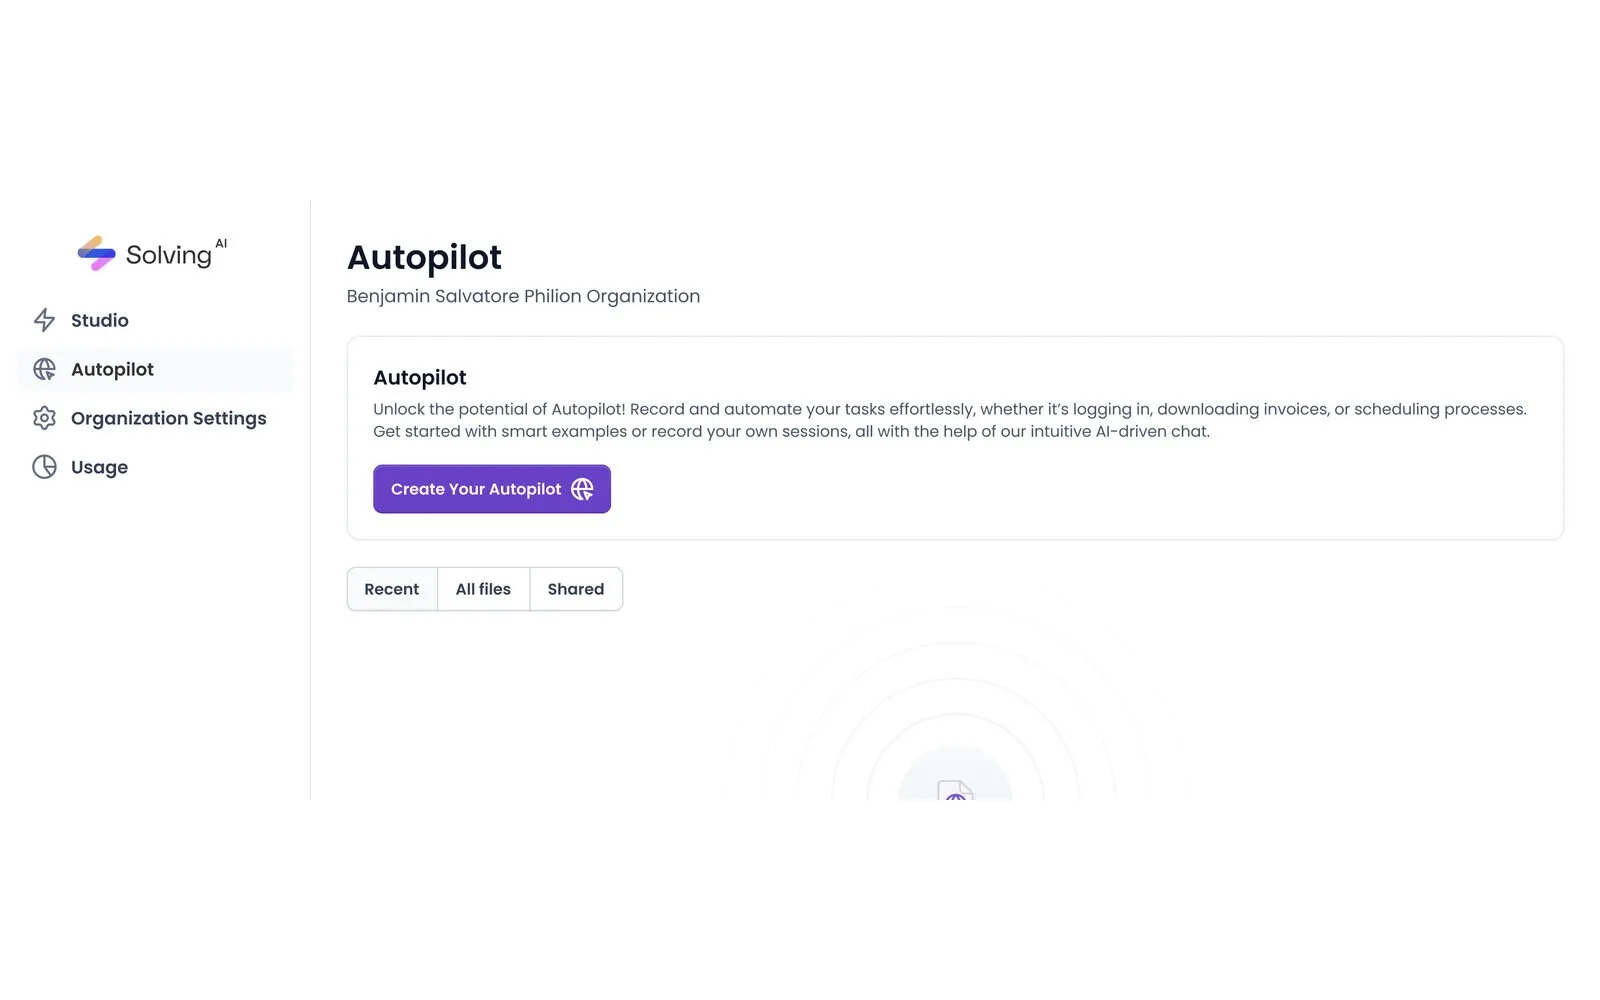
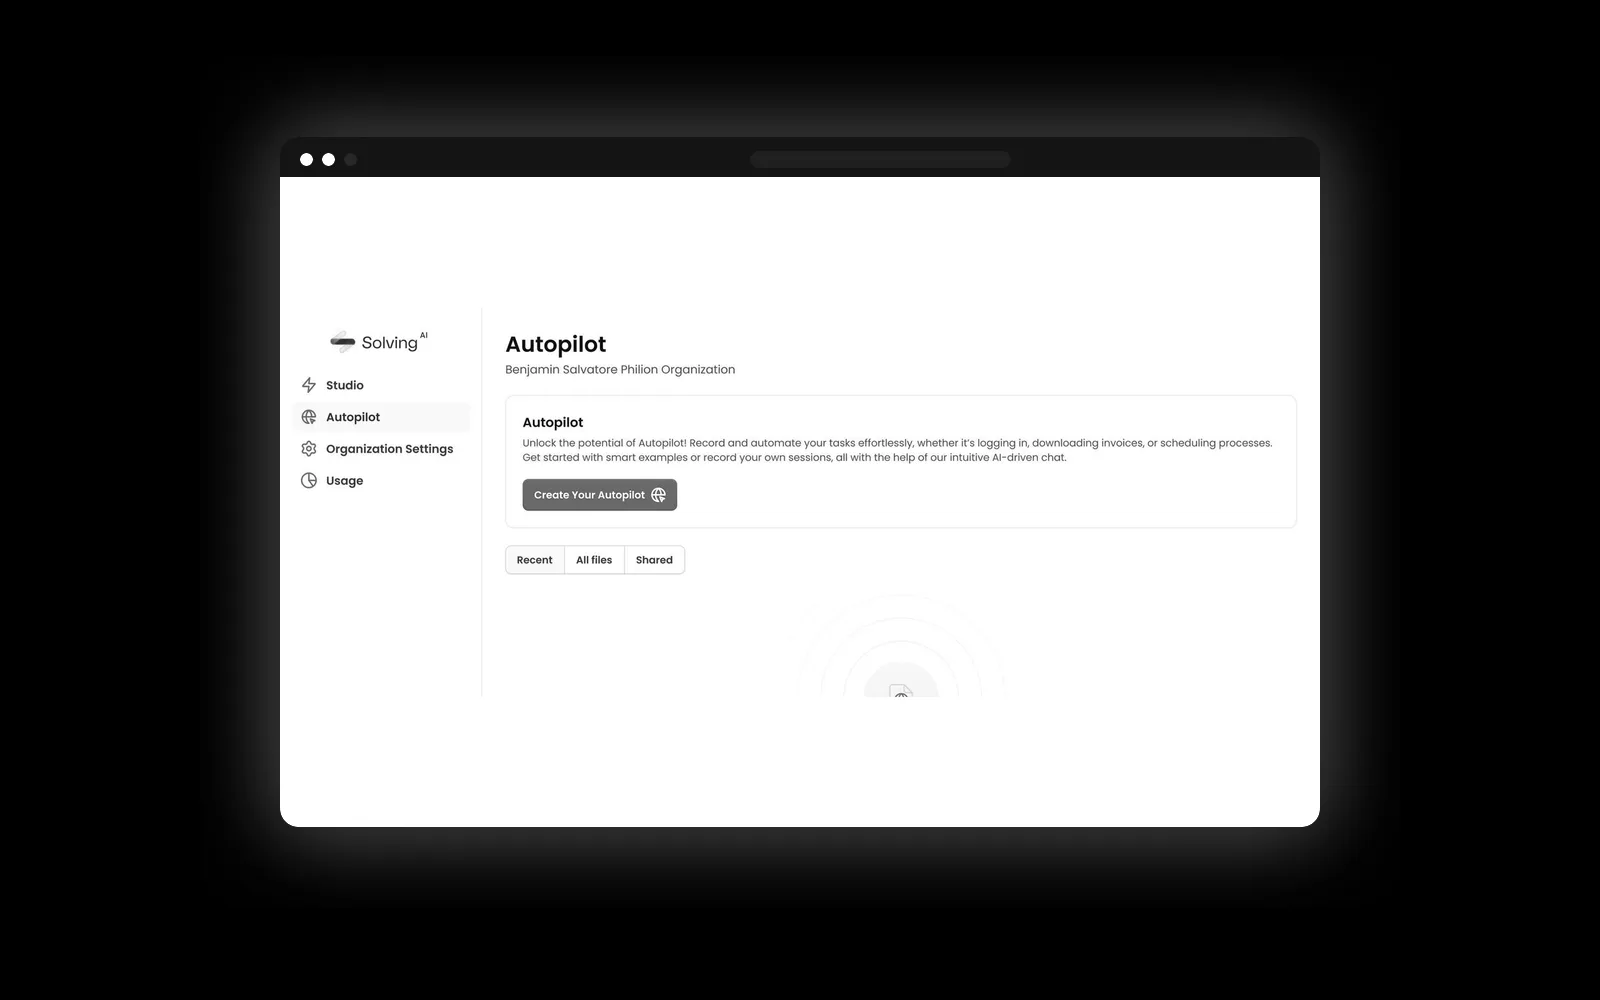
Unify the 3 flagship case covers into one 16:10 dark-glassmorphic family
Delivers the top-impact recommendation from the two-brain audit: the home
#work grid's three covers now read as one intentional visual system on a
shared obsidian + grid canvas, each with an accent glow-halo.

- Nvidia: new abstract glassmorphic cover generated via Antigravity/Imagen 3
  (keyless, on Pro auth) — fits the redacted-NDA concept, amber accent
- EPM: real map screenshot placed in a macOS browser-window frame, emerald glow
- Solving-AI: real Autopilot screenshot framed the same way, violet glow
- All 1600x1000 (16:10), jpg + webp, wired via <picture>; solving src ?v=4

Approach: art-directed framing/treatment around REAL screenshots (no fabricated
UI) so cohesion doesn't cost credibility. Verified live in-browser.

diff --git a/index.html b/index.html
@@ -210,8 +210,8 @@
             <span class="case-card__featured">Featured case</span>
             <div class="case-card__image">
               <picture>
-                <source srcset="assets/epm/map.webp" type="image/webp">
-                <img src="assets/epm/map.jpg" alt="EPM Carga Verde, the EV charger availability app I designed and built, showing a live station map of Medellin" width="1600" height="1000" loading="eager" fetchpriority="high" decoding="async">
+                <source srcset="assets/epm/card-cover.webp" type="image/webp">
+                <img src="assets/epm/card-cover.jpg" alt="EPM Carga Verde, the EV charger availability app I designed and built, showing a live station map of Medellin" width="1600" height="1000" loading="eager" fetchpriority="high" decoding="async">
               </picture>
             </div>
             <div class="case-card__content">
@@ -240,7 +240,10 @@
           <!-- Case Study 2: Nvidia -->
           <a href="case-nvidia.html" class="case-card fade-in">
             <div class="case-card__image">
-              <img src="assets/nvidia/card-cover.svg" alt="Redacted enterprise dashboard wireframe — Nvidia supply chain platform under NDA" width="800" height="500" loading="lazy" decoding="async">
+              <picture>
+                <source srcset="assets/nvidia/card-cover.webp" type="image/webp">
+                <img src="assets/nvidia/card-cover.jpg" alt="Redacted enterprise supply-chain AI dashboard — Nvidia platform under NDA, shown as an abstract glassmorphic concept" width="1600" height="1000" loading="lazy" decoding="async">
+              </picture>
             </div>
             <div class="case-card__content">
               <span class="case-card__company">CodeBranch &middot; Client: Nvidia</span>
@@ -269,8 +272,8 @@
           <a href="case-solving-ai.html" class="case-card fade-in">
             <div class="case-card__image">
               <picture>
-                <source srcset="assets/solving-ai/card-cover-real.webp?v=3" type="image/webp">
-                <img src="assets/solving-ai/card-cover-real.jpg?v=3" alt="Solving AI Autopilot dashboard — the production AI-automation interface I designed and shipped" width="1600" height="1000" loading="lazy" decoding="async">
+                <source srcset="assets/solving-ai/card-cover-real.webp?v=4" type="image/webp">
+                <img src="assets/solving-ai/card-cover-real.jpg?v=4" alt="Solving AI Autopilot dashboard — the production AI-automation interface I designed and shipped" width="1600" height="1000" loading="lazy" decoding="async">
               </picture>
             </div>
             <div class="case-card__content">
